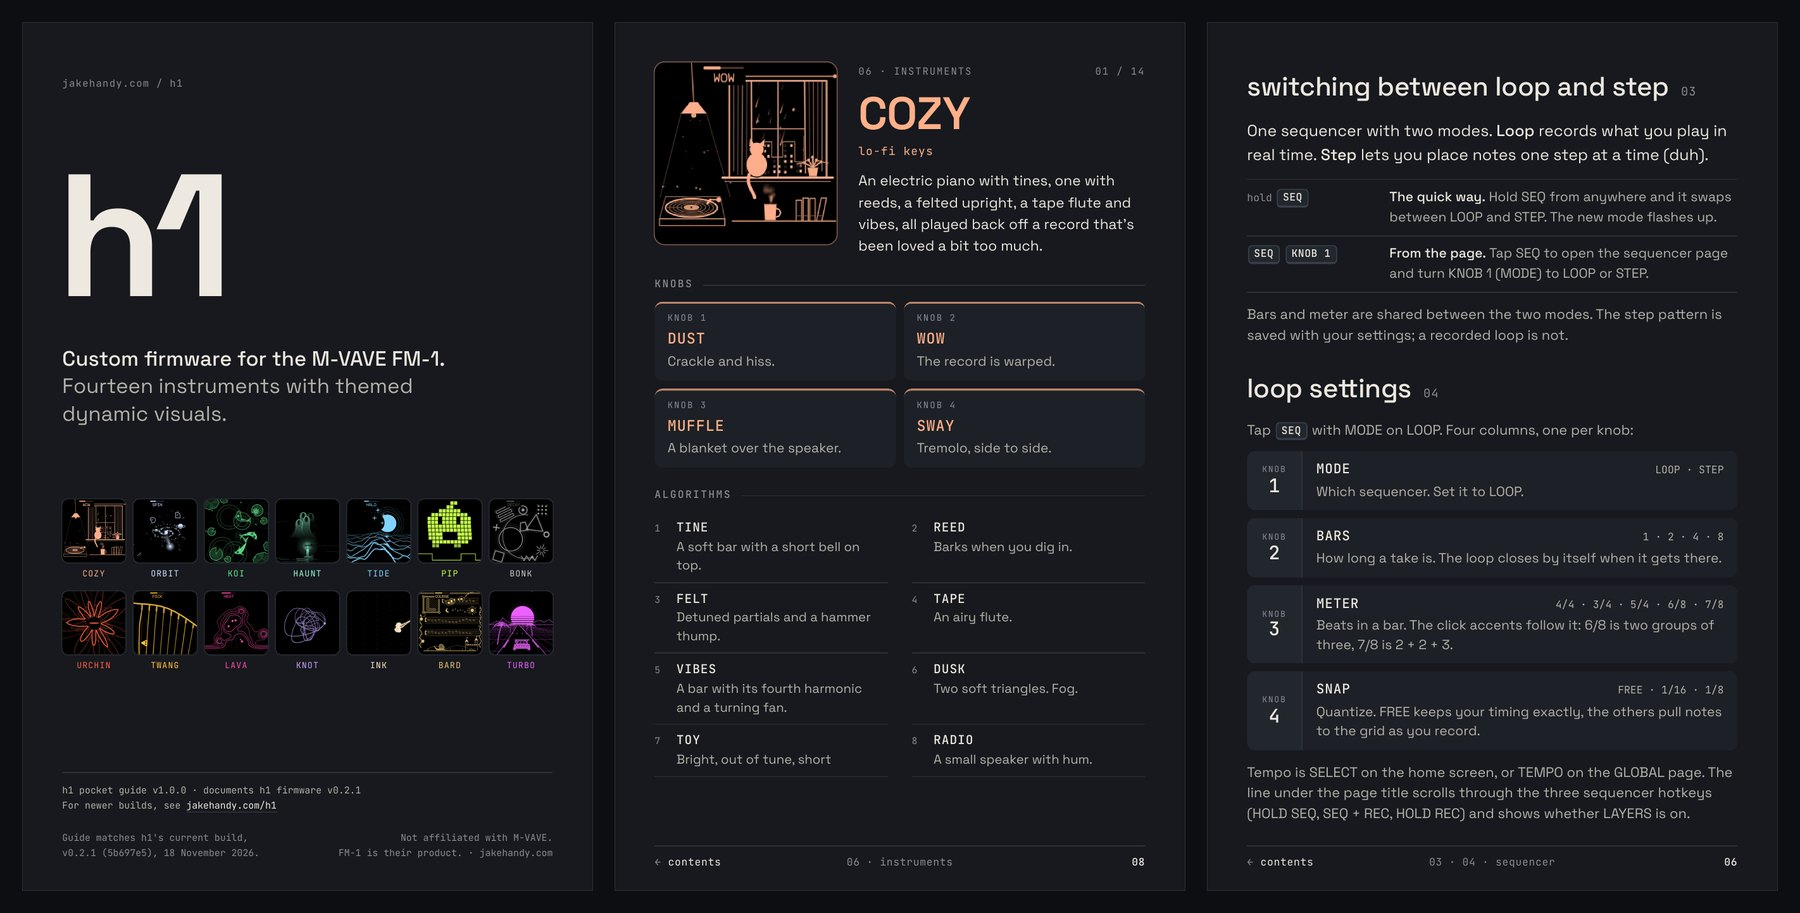
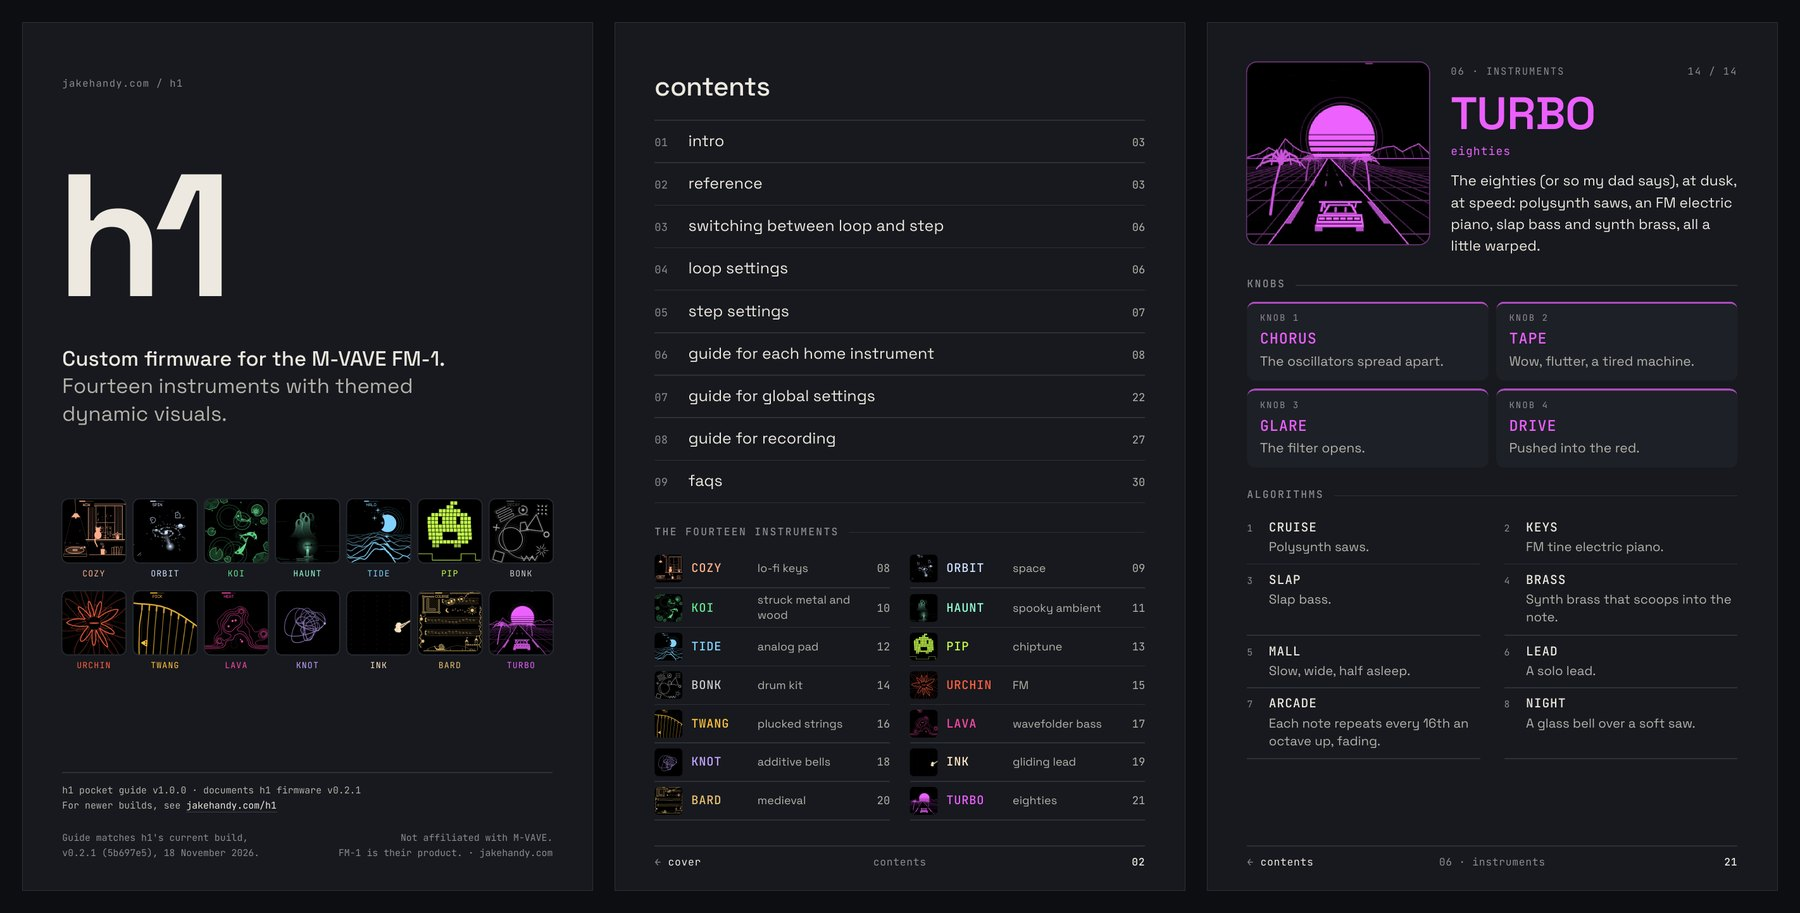
README: one preview of cover, contents and TURBO
Claude-Session: https://claude.ai/code/session_013um1M3pGxhjUHQnhs7fCaS

diff --git a/README.md b/README.md
@@ -17,18 +17,8 @@ Same words, same artwork, laid out for comfortable reading on an iPad mini in po
 ## A look inside
 
 <p align="center">
-  <img src="previews/look-inside.jpg" alt="Three pages from the guide on a dark charcoal background: the cover with a large h1 wordmark and a grid of all fourteen instrument artworks; the COZY page in peach, with its lo-fi room artwork, four knob cards and eight algorithms; and the loop settings page, with each setting tied to KNOB 1 to 4" width="100%">
+  <img src="previews/look-inside.jpg" alt="Three pages from the guide on a dark charcoal background: the cover with a large h1 wordmark and a grid of all fourteen instrument artworks; the contents page, listing the nine sections and the fourteen instruments with thumbnails and page numbers; and the TURBO page in magenta, with its synthwave sunset artwork, four knob cards and eight algorithms" width="100%">
 </p>
-
-<p align="center">
-  <img src="previews/instruments.jpg" alt="Three more pages: TURBO in magenta with its synthwave sunset artwork, URCHIN in red-orange with its glowing FM flower, and the global settings page with screenshots of the ARP page and the EDIT knob strip" width="100%">
-</p>
-
-<p align="center">
-  <img src="previews/navigation.jpg" alt="The contents page, listing all nine sections and the fourteen instruments with thumbnails and page numbers, beside the recording page with numbered steps for recording a loop" width="66%">
-</p>
-
-<p align="center"><sub>One page per instrument, each in its own colour · every setting tied to its knob · tap the contents, footers and bookmarks to jump around.</sub></p>
 
 ## Download
 
